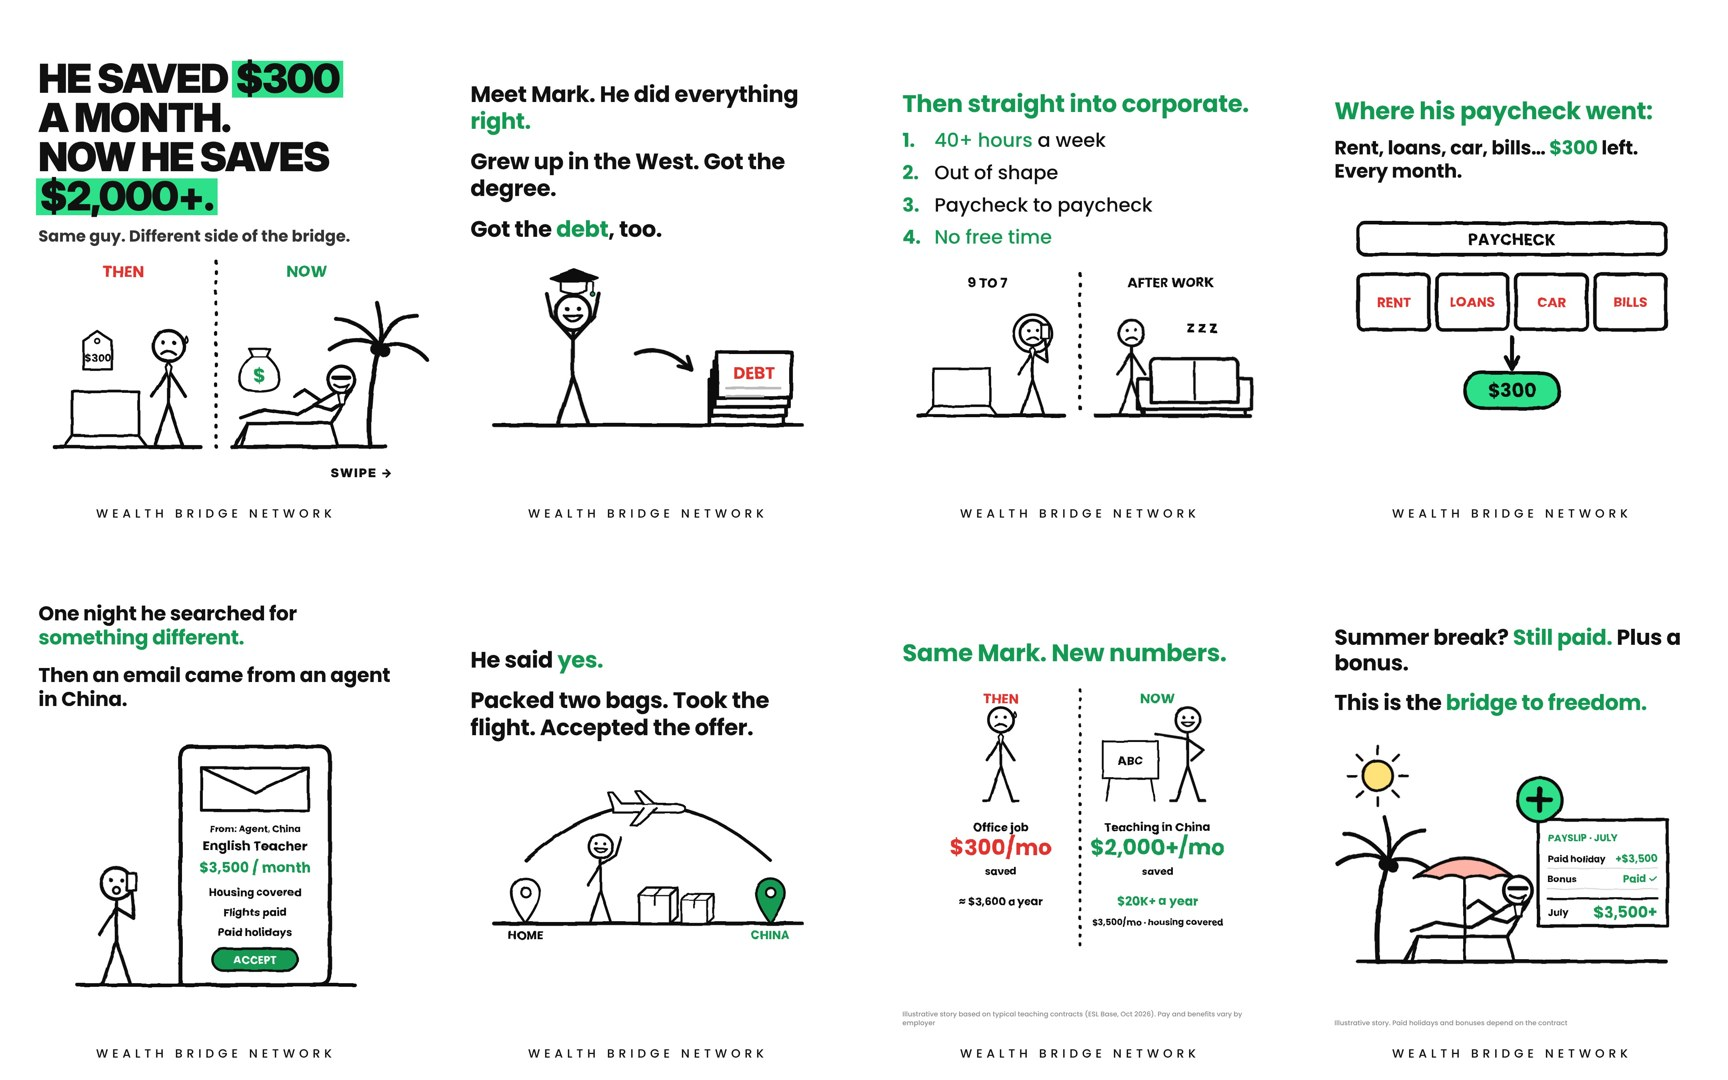
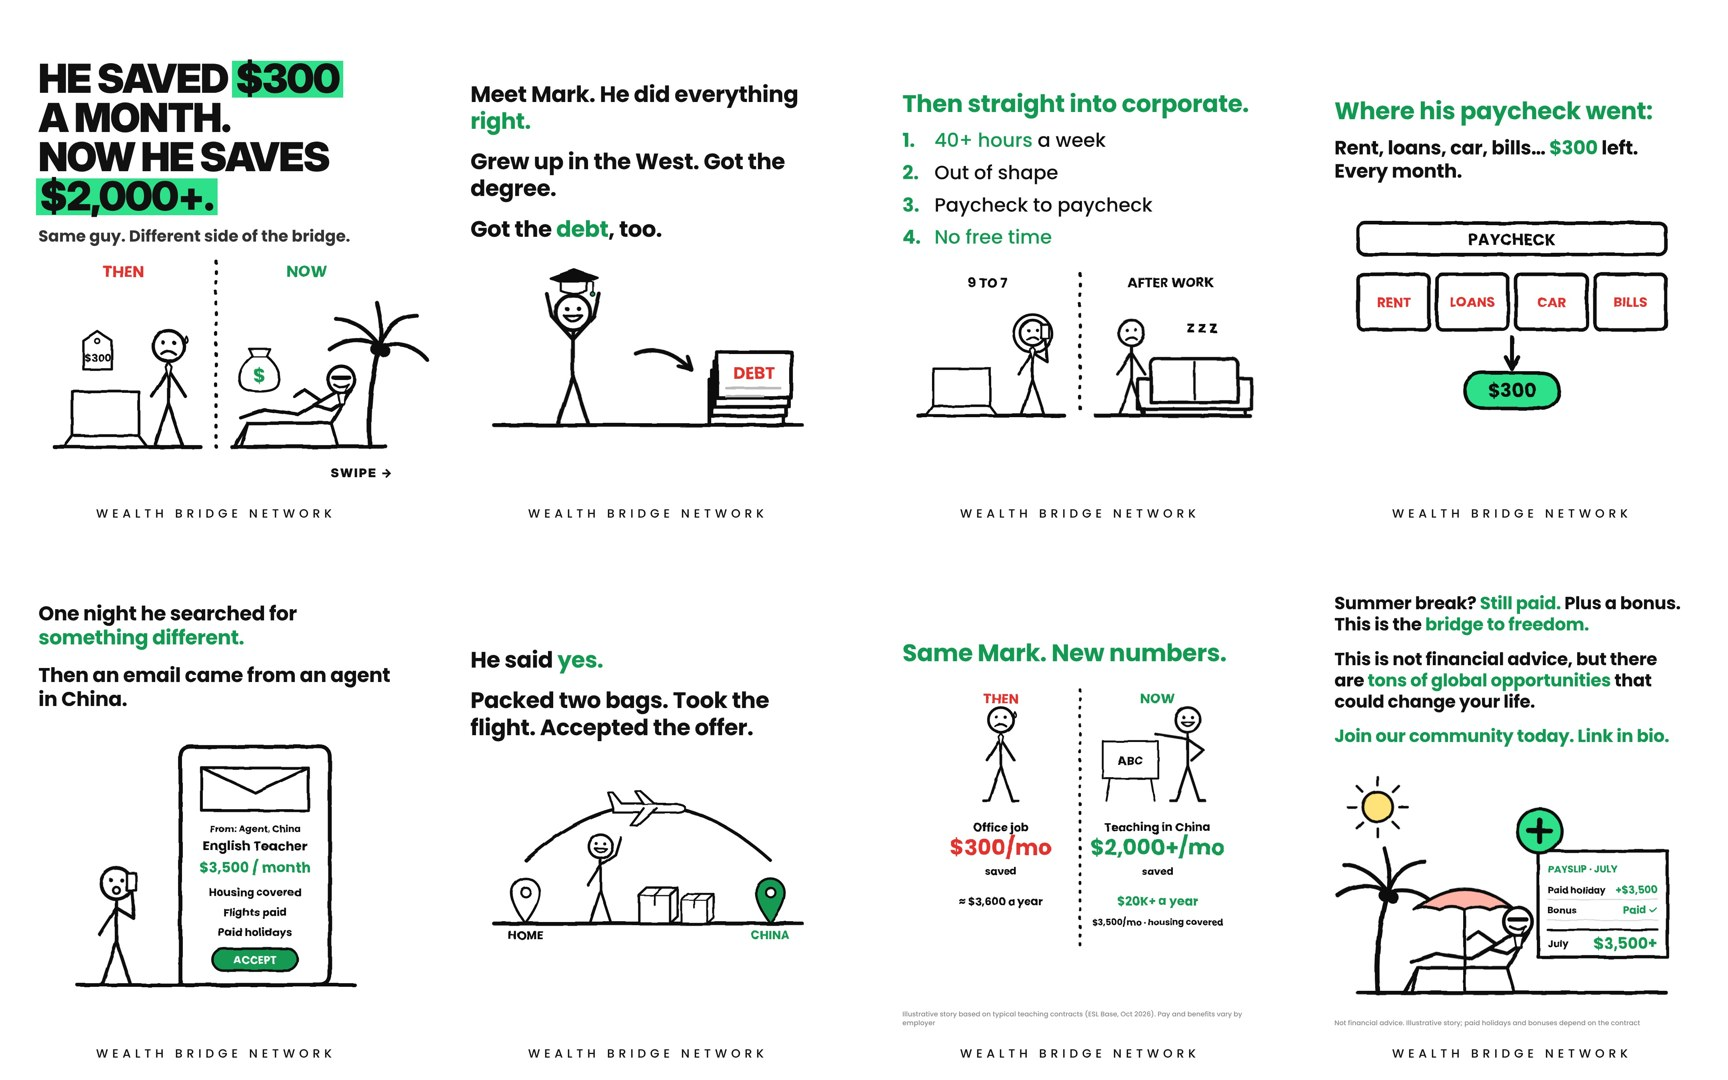
54 Mark's story: add not-financial-advice + community CTA to last slide
Claude-Session: https://claude.ai/code/session_01XWHiAuJ5usg3NqhhkBZ2QK

Changed region(s): [[0.75, 0.55, 0.9688, 0.9472]]

diff --git a/content/marks_story.py b/content/marks_story.py
@@ -110,8 +110,8 @@ def caption():
     return ("He was saving $300 a month. Now he saves $2,000+.\n\n"
             "Degree. Debt. 40+ hour weeks. Out of shape, paycheck to paycheck, no free time. Then an email from an agent in China: "
             "an English teaching job at $3,500 a month with housing covered. He took the flight. Now he saves $20K+ a year, and he's still paid in the summer.\n\n"
-            "This is the bridge to freedom.\n\n"
-            "(Illustrative story based on typical teaching contracts. Pay and benefits vary by employer.)\n\n"
+            "This is the bridge to freedom. There are tons of global opportunities that could change your life. Join our community today: link in bio.\n\n"
+            "(Not financial advice. Illustrative story based on typical teaching contracts. Pay and benefits vary by employer.)\n\n"
             f"Follow @wealthbridgenetwork for more China opportunities.\n\n{SIGN}\n\n{TAGS} "
             "#teachinchina #teachabroad #expatlife #financialfreedom #debtfree #careerchange")
 
@@ -158,9 +158,11 @@ dict(id="54-marks-story", pillar="Job offers", title="Mark's story: the bridge t
       + lbl(680, 640, "$20K+ a year", GREEN, 36, 800) + lbl(680, 700, "$3,500/mo · housing covered", INK, 26, 600), vh=760,
       src=NOTE),
  # 8 · SUMMER + CLOSE
- dict(text=["Summer break? *Still paid.* Plus a bonus.", "This is the *bridge to freedom.*"], fs=54,
+ dict(text=["Summer break? *Still paid.* Plus a bonus. This is the *bridge to freedom.*",
+            "This is not financial advice, but there are *tons of global opportunities* that could change your life.",
+            "*Join our community today. Link in bio.*"], fs=44,
       scene=ground(60, 840, 560) + sun(110, 90, 0.7) + palm(110, 560, 0.85) + umbrella(330, 560, 0.75) + lounger(330, 560, 0.9)
       + payslip(680, 470, 0.82, rows=[("Paid holiday", "+$3,500"), ("Bonus", "Paid ✓")], total=("July", "$3,500+")) + plus(520, 150, 0.8), vh=580,
-      src="Illustrative story. Paid holidays and bonuses depend on the contract"),
+      src="Not financial advice. Illustrative story; paid holidays and bonuses depend on the contract"),
 ]),
 ]
